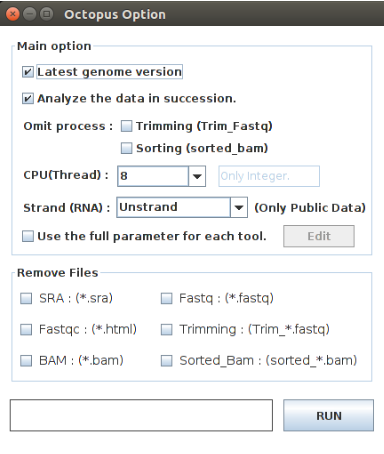
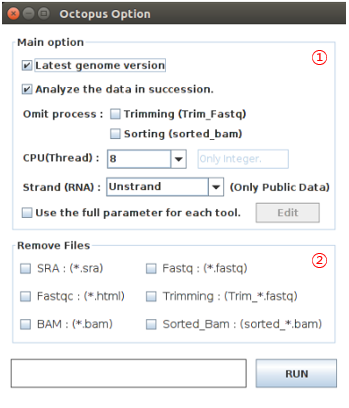
Add Second Document

diff --git a/doc/guide.rst b/doc/guide.rst
@@ -1,3 +1,146 @@
 ==========
 User Guide
 ==========
+
+Octopus-toolkit can analyze data already published on NCBI or stored on your computer.
+
+* ``Public data`` : The NGS data uploaded to NCBI.
+* ``Private data`` : The NGS data stored on the user's computer. (Data obtained through a sequencing machine or downloaded directly in the web)
+
+Also, Octopus-toolkit can analyze further analysis such as ``Peak Calling``, ``Drawing Graph``, and ``Visualization`` after analyzing the public data or private data.
+
+The basic analysis of Octopus-toolkit uses public data.
+
+* ``NGS data processing``
+
+.. image:: _static/Guide/0.NGS_data_processing.png
+
+The analysis using Octopus-toolkit is based on the process from preprocessing to visualization. You can analyze the further analysis after the completion of the visualization process. 
+
+Public data
+^^^^^^^^^^^
+
+.. image:: _static/Guide/1.Public_Data_Input.png
+
+To analyze the public data, enter the GEO (Gene Expression Omnibus) Accession number or load the GEO Accession number list file.
+
+* Input : ``GEO Accession number`` ::
+
+   GSExxx : Each Series(Study) record is assigned a unique and stable GEO accession number.
+   GSMxxx : Each Sample record is assigned a unique and stable GEO accession number.
+
+* Input : ``GEO Accession number list`` (:download:`example.list<_templates/GEO_Accession_number.list>`)
+
+1. Enter the GEO accession number or click the open button to load GEO accession number list.
+2. Click the Run button.
+
+You can use the options provided by Octopus-toolkit as well as the tools used by each process.
+
+.. image:: _static/Guide/2.Octopus_Option.png
+
+.. csv-table::
+   :header: "Option","Discription"
+   :widths: 10,35
+
+   ``Latest genome version``, Use the latest genome.
+   ``Analyze the data in succession``, Skips already analyzed the samples.
+   ``Omit Process``,Omit the selected process. (Trimming and Sort)
+   ``CPU(Thread)``,Set the CPU to use.
+   ``Strand(RNA)``,Set the library strand for RNA-Seq.
+   ``Use the full parameter for each tool``,Use the full parameter.
+   ``Edit Button``,Go to the Full parameter option window.
+   ``Remove Files``,Delete selected files after each process analysis for HDD free space.
+
+* ``Latest genome version``
+
+Octopus-toolkit can analyze for Homo sapiens, Mus musculus, Drosophila melanogaster, Saccharomyces cerevisiae, and Canis lupus familaris.
+
+.. list-table:: Available analysis genome version
+   :widths: 10 10
+   :header-rows: 1
+
+   * - Organism
+     - Genome version
+   * - Homo sapiens
+     - hg38, hg19, hg18
+   * - Mus musculus
+     - mm10, mm9
+   * - Drosophila melanogaster
+     - dm6, dm3
+   * - Saccharomyces cerevisiae
+     - sacCer3
+   * - Canis lupus familaris
+     - canFam3
+
+The latest genome version uses the latest version of the genome for analysis. If you don't select this option, Octopus-toolkit uses the following genome version for analysis. ::
+
+ * Latest genome (O) : hg38, mm10, dm6, sacCer3, canFam3
+ * Latest genome (X) : hg19, mm9, dm3, sacCer3, canFam3
+
+* ``Analyze the data in succession``
+
+When analyzing a GSE accession number that has a lot of sample data, you may have to shut down the computer during analysis for a variety of reasons. For example, if you stop analyzing after 8 samples of 10 samples have been analyzed, and later analyze again, you will have to analyze again from the beginning.(First sample) 
+
+To solve this issue, Octopus-toolkit saves analysis information of the sample in the log file after the analysis of one sample is completed.
+
+If you select analyze the data in succession, you can skip the already analyzed samples.
+
+If you have already analyzed the sample, but you want to reanalyze it with other options, Don't select analyze the data in succession.
+
+* ``Omit process``
+
+The omit process allows you to skip and analyze the selected process during the entire analysis process. You can shorten the overall analysis time by omitting these processes.
+
+In the trimming process, If all reads have bad quality, there is a possibility that all reads are deleted. Octopus-toolkit will analyze the original raw data(Fastq) when all reads are deleted due to bad quality after trimming.
+
+Also, If all reads are higher than the trimming cutoff (quality, adapt), you can skip to the 
+trimming process.
+
+In the sorting process, The alignment process in Octopus-toolkit provides you with a bam format file and a sorted.bam file that sorts it.
+
+Sorted.bam files can't be used for visualization , peak calling, and graph function after alignment process. It is used only when confirming the bam file directly via IGV tool.
+(The IGV process basically uses the bigWig format file, which is the output file of Visualization)
+
+However, the reason for creating sorted.bam file in Octopus-toolkit is that many NGS tools use the sorted.bam file as input for further analysis.
+
+So, If you don't need a sorted.bam file you can skip this sorting process to save time.
+
+* ``CPU(Thread)``
+
+Octopus-toolkit can select the CPU to your computer for analysis. (Default : 8)
+
+* ``Strand(RNA)``
+
+Strand is the library's strand information needed to analyze RNA-Seq data.
+
+Octopus-toolkit extracts information from samples in the GEO dataset when analyzing public data. However, information about strand is not well provided in GEO datasets.
+
+So, when you want to analyze the RNA-Seq data, you can set the strand specific library or non-strand library via this option. (Default : Unstrand)
+
+You can select either non-strand library or the strand-specific library such as FR-Firststrand, FR-Secondstrand using this option.
+
+* ``Use the full parameter for each tool``
+
+Use the full parameter for each tool (Checkbox) allows you to select the full option of the tool used in each analysis.
+
+When you select it, the Edit button is enabled. You can go to the Full parameter option window via the Edit button.
+
+* ``Edit Button``
+
+The Edit button will be active when you select Use the full parameter for each tool. If you click the Edit button, the Full parameter optinos window will appear.
+
+* ``Remove Files``
+
+
+
+Private data
+^^^^^^^^^^^^
+
+Peak Calling
+^^^^^^^^^^^^
+
+Graph
+^^^^^
+
+Visualization
+^^^^^^^^^^^^^

diff --git a/doc/user_interface.rst b/doc/user_interface.rst
@@ -51,16 +51,12 @@ The image is the option of Octopus-toolkit.
 .. image:: _static/Interface/2.Octopus_Option.png
 
 .. csv-table::
-   :header: "Option","Discription"
-   :widths: 10,35
+   :header: "No","Name","Discription"
+   :widths: 1,8,37
 
-   ``Latest genome version``, Use the latest genome.
-   ``Analyze the data in succession``, Skips already analyzed the samples.
-   ``Omit Process``,Omit the selected process. (Trimming and Sort)
-   ``CPU(Thread)``,Set the CPU to use.
-   ``Strand(RNA)``,Set the library strand for RNA-Seq.
-   ``Use the full parameter for each tool``,Use the full parameter.
-   ``Remove Files``,Delete selected files after each process analysis for HDD free space.
+   1,``Main option``,A window where you can set basic options for analysis.
+   2,``Remove Files``,Delete selected files after each process analysis for HDD free space.
+
 
 
 Full parameter

diff --git a/doc/run.rst b/doc/run.rst
@@ -33,7 +33,7 @@ Or Command (Download ~ Run) ::
 
 * After completing the Requirement installation.
 
-.. image:: _static/Complete_Installing_Requirement.png
+.. image:: _static/Error/Err007_Complete_Installing_Requirement.png
 
 Java Virtual Machine(VM) heap memory limited
 --------------------------------------------

diff --git a/doc/index.rst b/doc/index.rst
@@ -58,10 +58,3 @@ Table of contents
 
 ..
 
-Indices and tables
-==================
-
-* :ref:`genindex`
-* :ref:`modindex`
-* :ref:`search`
-
